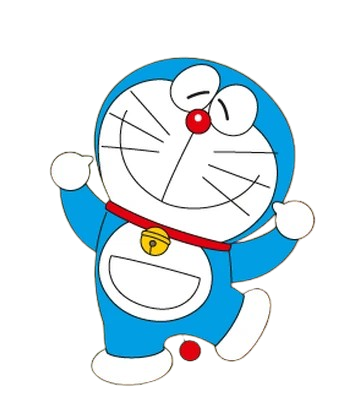
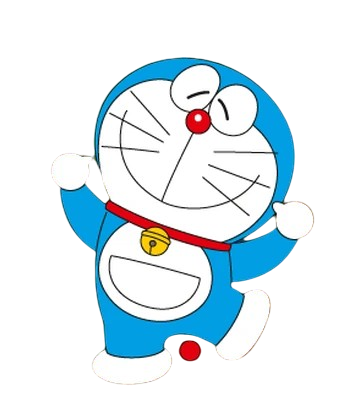
Cập nhật giao diện lá thư

diff --git a/index.html b/index.html
@@ -210,7 +210,7 @@
   </div>
 
   <img id="hoitham" src="hoitham.png" alt="Hỏi thăm">
-  <img id="meodicho" src="meodicho.jpeg" alt="Mèo đi chợ" style="display: none;width: 450px;height: 450px;"/>
+  <img id="meodicho" src="meodicho.png" alt="Mèo đi chợ" style="display: none;width: 450px;height: 450px;"/>
   <img id="nauan" src="nauan.jpeg" alt="Nấu ăn">
 
   <div id="dishes" class="dish-container">
